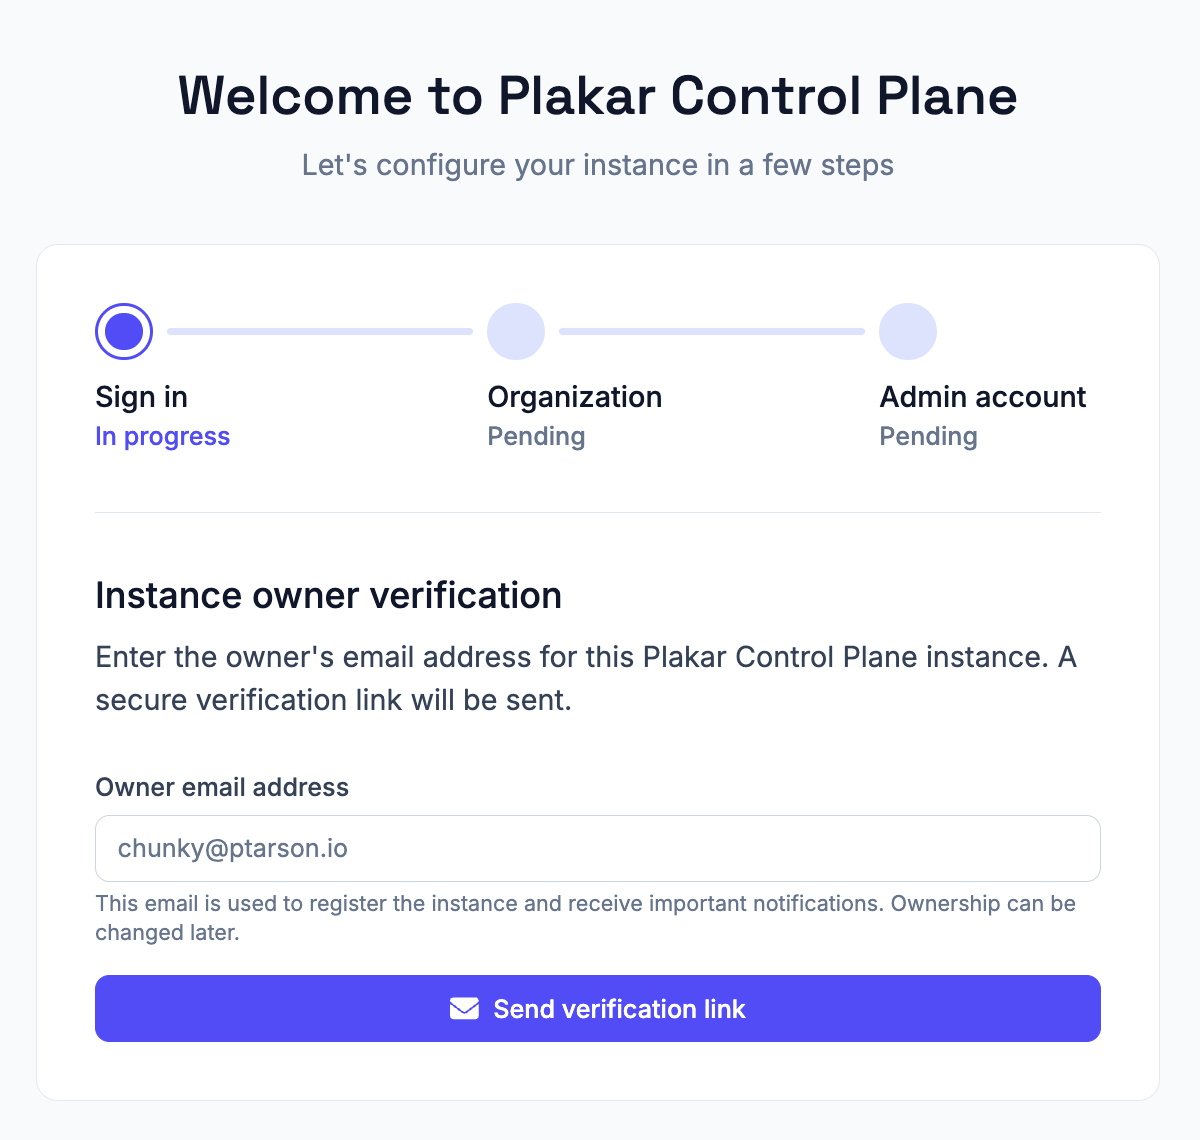
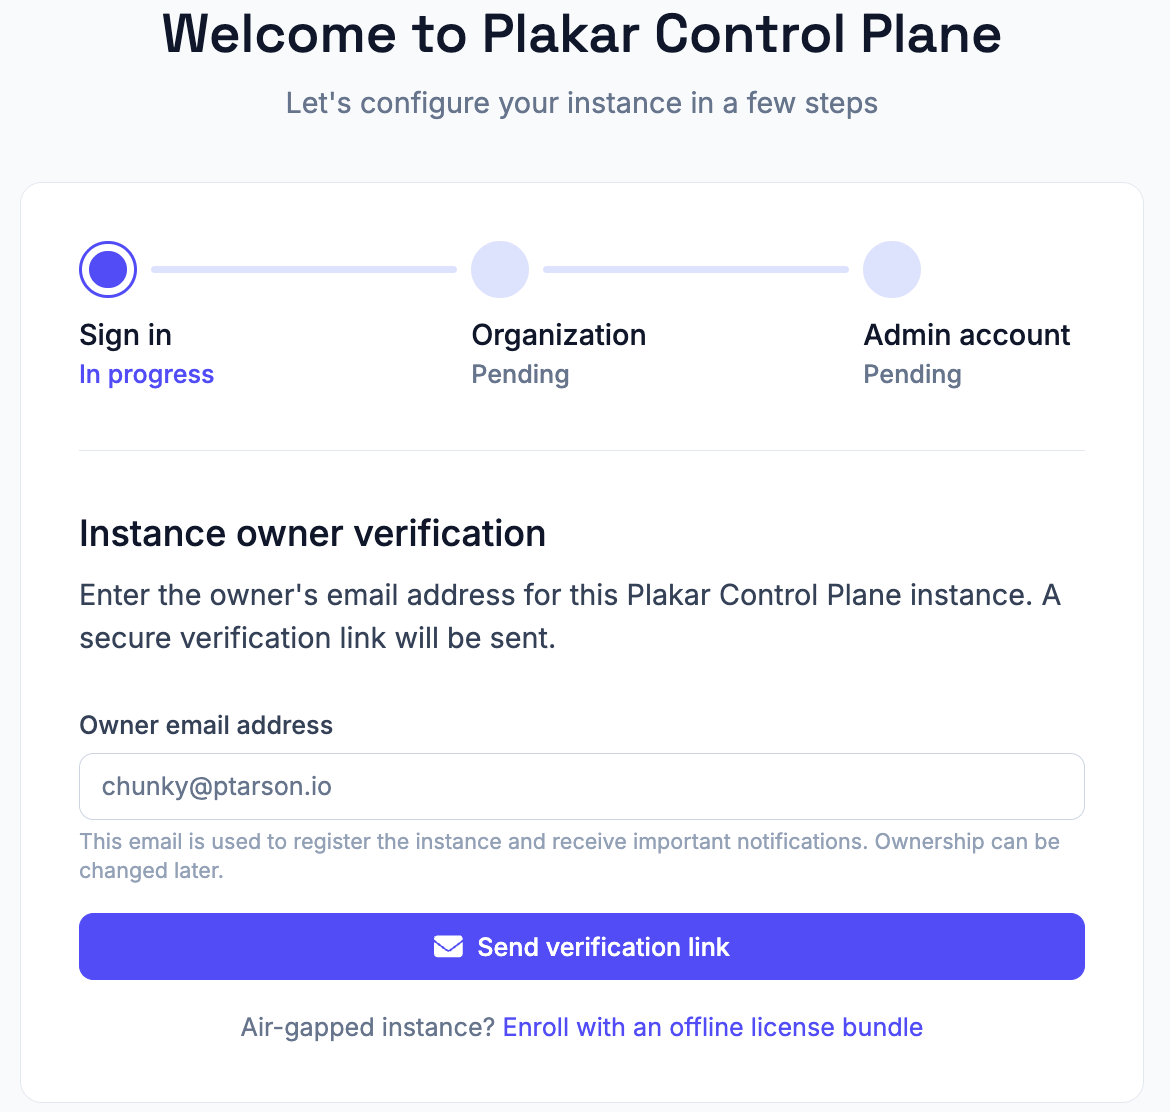
add enrollment doc and settings for air gapped instances

Changed region(s): [[0.0615, 0.4586, 0.9538, 0.9478], [0.1231, 0.0, 0.8615, 0.1529], [0.0615, 0.214, 0.9231, 0.3975]]

diff --git a/content/docs/control-plane/intro/air-gapped.md b/content/docs/control-plane/intro/air-gapped.md
@@ -1,0 +1,55 @@
+---
+title: "Air-gapped enrollment"
+date: "2026-08-06T00:00:00Z"
+weight: 4
+summary:
+  "How to enroll an air-gapped Plakar Control Plane instance using an offline
+  license."
+---
+
+# Air-gapped enrollment
+
+[Standard enrollment](./enrollment) registers your instance with `plakar.io` to
+verify the owner email and retrieve your license. If your instance runs in an
+air-gapped or PCI-DSS environment where outbound connections are not permitted,
+use air-gapped enrollment instead. It enrolls the instance entirely from a
+license issued by Plakar in advance, without the instance ever reaching out to
+`plakar.io`.
+
+From the sign-in step of the enrollment process, select **Enroll with an offline
+license bundle** to switch to air-gapped enrollment.
+
+## Getting a license
+
+[Contact us](/contact) to request an offline license for your instance. Once you
+have it, paste it into the enrollment page, or load it directly from the license
+file. The instance validates the license locally, then uses it to create the
+organization and admin account described below.
+
+## Organization and admin account
+
+Air-gapped enrollment creates the organization and the admin account in a single
+step, rather than as separate steps like in
+[standard enrollment](../enrollment). Provide the required information then
+enroll the instance.
+
+{{< figure src="../images/air-gapped-enrollment.png" alt="Air-gapped enrollment" class="mx-auto max-w-120" >}}
+
+Because there is no owner email verification step in air-gapped mode, the admin
+account created here also acts as the instance owner.
+
+## License renewal
+
+Offline licenses includes an expiry date. You can view the current license,
+plan, and expiry date under **Settings > General**.
+
+![Managing your license and plan](../images/managing-licence.png)
+
+Unlike online instances, air-gapped instances do not renew their license
+automatically. To renew an offline license, [contact us](/contact) to obtain a
+new license for your instance. Then, on the **General** settings page, paste the
+new license into the **Replace with** field or load it from a license file, and
+select **Replace license**.
+
+Replacing the license does not require re-enrollment and does not affect your
+existing configuration or backups.

diff --git a/content/docs/control-plane/intro/enrollment.md b/content/docs/control-plane/intro/enrollment.md
@@ -27,7 +27,7 @@ return to the setup page and continue.
 
 Ownership can be transferred later if needed.
 
-![](../images/enrollment-1.png)
+{{< figure src="../images/enrollment-1.png" alt="Enrolling an instance" class="mx-auto max-w-120" >}}
 
 {{< /step >}}
 
@@ -58,7 +58,7 @@ Once the admin account is created, you are shown a confirmation screen with your
 organization name, admin details, and the current Plakar Control Plane version.
 From here you can go straight to the dashboard.
 
-![](../images/enrollment-2.png)
+{{< figure src="../images/enrollment-2.png" alt="Successful enrollment" class="mx-auto max-w-120" >}}
 
 {{< /step >}}
 
@@ -67,5 +67,5 @@ From here you can go straight to the dashboard.
 ## Offline mode
 
 If you operate in an air-gapped or PCI-DSS environment and cannot allow outbound
-connections to `plakar.io`, [contact us](/contact) to discuss offline mode
-options.
+connections to `plakar.io`, use [air-gapped enrollment](./air-gapped) instead
+and [contact us](/contact) to get a licence for your air-gapped instance.

diff --git a/content/docs/control-plane/administration/general-settings.md b/content/docs/control-plane/administration/general-settings.md
@@ -79,6 +79,20 @@ than improved performance.
 For more information about MTU values and jumbo frames, see
 [MTU and Jumbo Frames](../../guides/mtu-and-jumbo-frames) documentation.
 
+## Package repository
+
+By default, Plakar Control Plane downloads the integrations index and packages
+from `plakar.io`. In environments without internet access, such as air-gapped
+deployments, you can instead configure an internal package repository.
+
+Enter the URL of a web server hosting the integrations index and `.ptar`
+packages, then click **Update**. Leave the field empty to use the default
+`plakar.io` repository.
+
+For air-gapped deployments, see [air-gapped enrollment](../intro/air-gapped) for
+the complete enrollment process and [hosting a package repository](#) for
+instructions on setting up a local repository.
+
 ## Webhook
 
 Deliver Plakar Control Plane events, such as job completions and failures, to an

diff --git a/content/docs/control-plane/intro/installation/_index.md b/content/docs/control-plane/intro/installation/_index.md
@@ -21,7 +21,8 @@ your license and set up billing reporting. No backup data is ever transferred
 during this process, only the consumption metrics needed for billing.
 
 If you operate in an air-gapped or PCI-DSS environment and need a full offline
-mode, [contact us](/contact).
+mode, see [air-gapped enrollment](../air-gapped) and [contact us](/contact) to
+get a licence for your air-gapped instance.
 
 ## Next steps
 

diff --git a/content/docs/control-plane/intro/billing.md b/content/docs/control-plane/intro/billing.md
@@ -1,7 +1,7 @@
 ---
 title: "Billing & Plans"
 date: "2026-04-29T00:00:00Z"
-weight: 4
+weight: 5
 summary: "Plakar Control Plane plans and how to manage your license."
 aliases:
   - /control-plane-docs/intro/billing/
